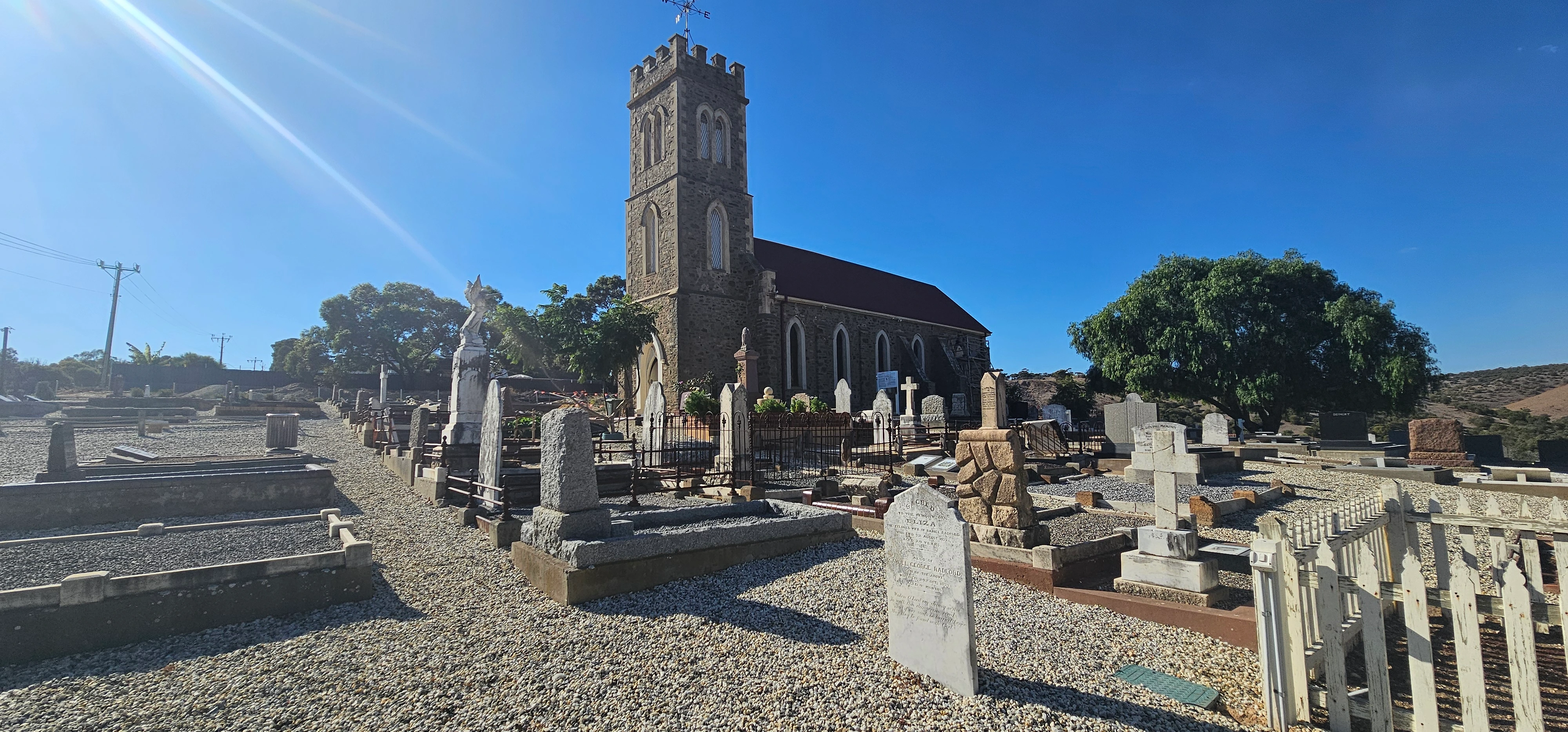
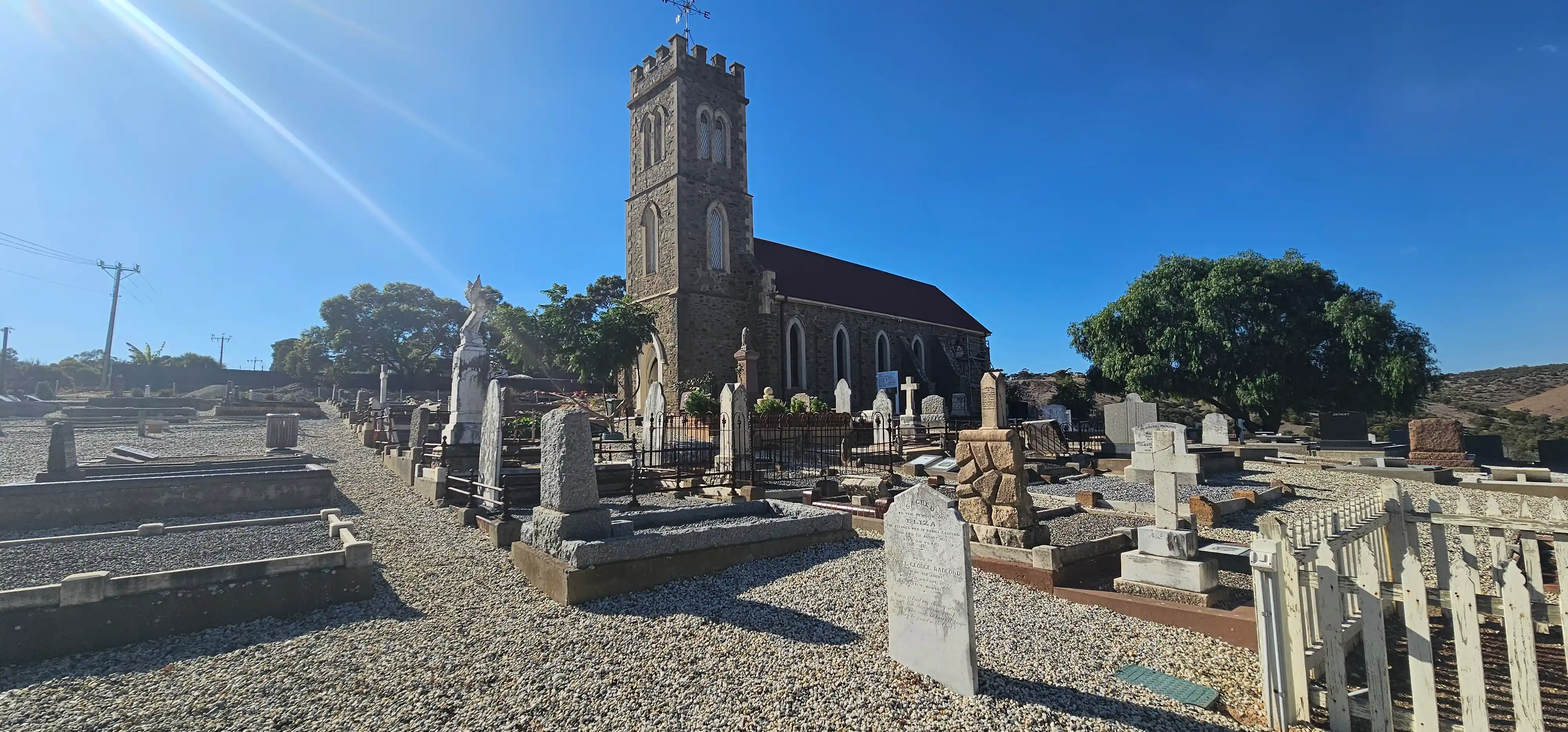
Site Optimization Experiment - LCP improve

diff --git a/tailwind.config.js b/tailwind.config.js
@@ -38,14 +38,14 @@ module.exports = {
       },
       backgroundImage: (theme) => ({
         "hero-section": "url('/images/contact-bg.jpg')",
-        "intro-overlay": "url('/images/intro-overly.png')",
+        "intro-overlay": "url('/images/intro-overly.webp')",
         "testimonials-overlay": "url('/images/testimonials-overly.png')",
         "contact-overlay": "url('/images/Ellipse-141.png')",
         "ellipse-1": "url('/images/Ellipse-140.png')",
         "ellipse-2": "url('/images/Ellipse-139.webp')",
-        "services-bg-1": "url('/images/services_bg_1.png')",
-        "services-bg-2": "url('/images/services_bg_2.png')",
-        "services-bg-3": "url('/images/services_bg_3.png')",
+        "services-bg-1": "url('/images/services_bg_1.webp')",
+        "services-bg-2": "url('/images/services_bg_2.webp')",
+        "services-bg-3": "url('/images/services_bg_3.webp')",
         "banner-bg": "url('/images/banner_bg.webp')",
         "banner-bg-2": "url('/images/banner_bg_2.jpeg')",
         "ourhistoryandvision-bg": "url('/images/ourhistoryandvision_bg.jpeg')",
